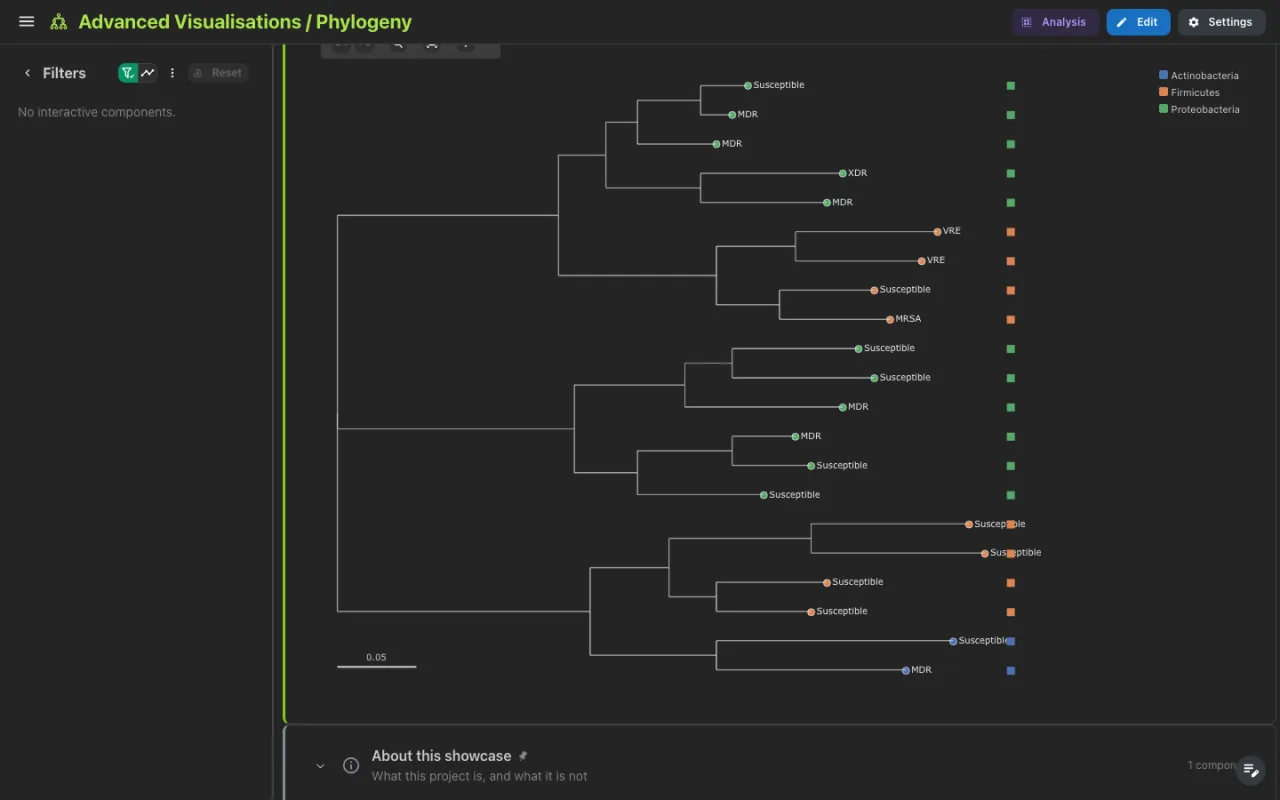
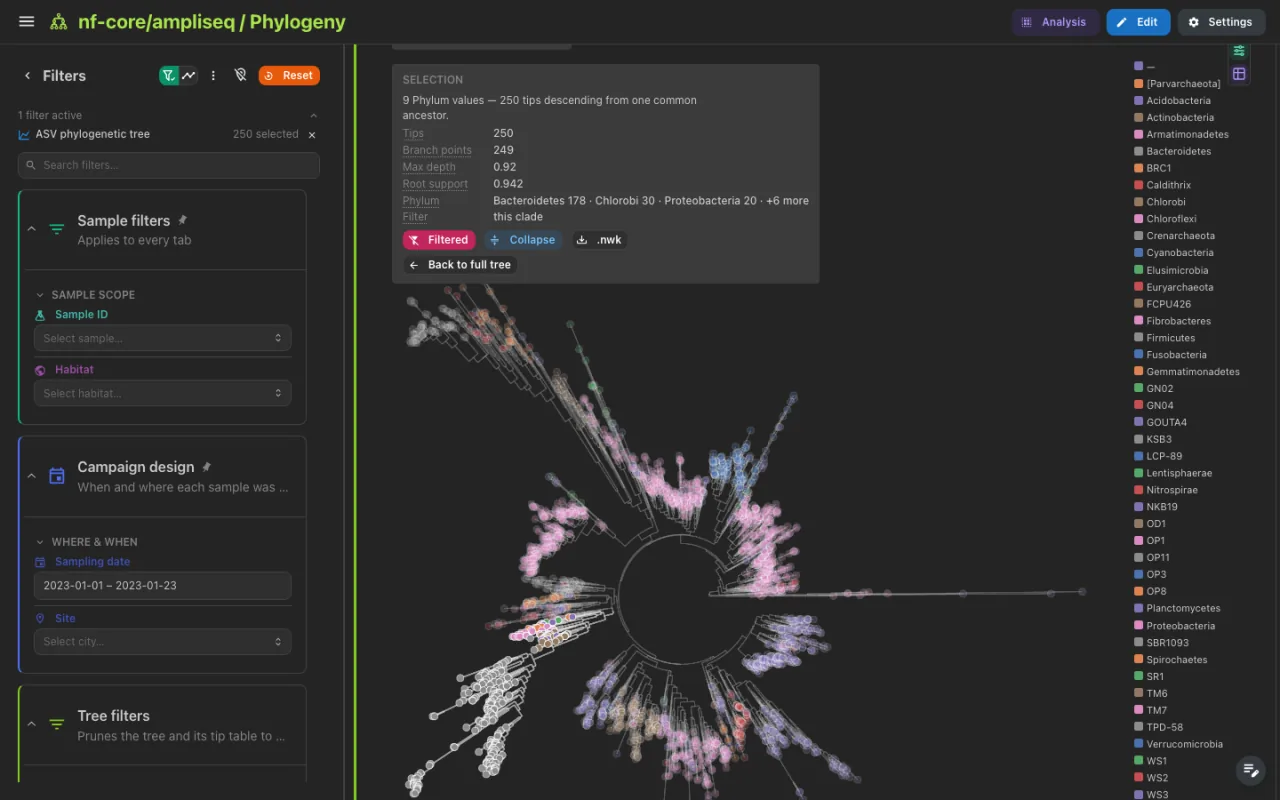
docs(landing): the Explore band shows a real clade selection
Selects a 250-tip clade on the ampliseq ASV tree, opens its summary panel
and filters the dashboard to it, in both themes, and rewrites the copy
around what the panel actually reports.

Claude-Session: https://claude.ai/code/session_01Nf4c6hn9wbUq8buVF4tb3c

diff --git a/docs/index.md b/docs/index.md
@@ -449,7 +449,7 @@ hide:
     <article class="feature-row">
       <div class="feature-row-visual">
         <button type="button" class="feature-frame" aria-label="Enlarge the screenshot: a clade selected on a phylogenetic tree">
-          <img class="only-light" src="images/landing/explore_light.webp" alt="A phylogenetic tree beside the annotation strip built from its tip metadata" loading="lazy">
+          <img class="only-light" src="images/landing/explore_light.webp" alt="A clade selected on a phylogenetic tree, its summary panel open and the dashboard filtered to the 250 tips it holds" loading="lazy">
           <img class="only-dark" src="images/landing/explore_dark.webp" alt="" loading="lazy">
           <span class="feature-zoom" aria-hidden="true"><svg xmlns="http://www.w3.org/2000/svg" viewBox="0 0 24 24"><path d="M15.5,14L20.5,19L19,20.5L14,15.5V14.71L13.73,14.43C12.59,15.41 11.11,16 9.5,16A6.5,6.5 0 0,1 3,9.5A6.5,6.5 0 0,1 9.5,3A6.5,6.5 0 0,1 16,9.5C16,11.11 15.41,12.59 14.43,13.73L14.71,14H15.5M9.5,14C12,14 14,12 14,9.5C14,7 12,5 9.5,5C7,5 5,7 5,9.5C5,12 7,14 9.5,14M12,10H10V12H9V10H7V9H9V7H10V9H12V10Z"/></svg></span>
         </button>
@@ -457,7 +457,7 @@ hide:
       <div class="feature-row-text">
         <span class="feature-kicker"><svg xmlns="http://www.w3.org/2000/svg" viewBox="0 0 24 24" aria-hidden="true"><path d="M9,2V8H11V10H5A2,2 0 0,0 3,12V14H1V20H7V14H5V12H11V14H9V20H15V14H13V12H19V14H17V20H23V14H21V12A2,2 0 0,0 19,10H13V8H15V2H9Z"/></svg><span>Explore</span></span>
         <h3>Pick a clade, filter everything</h3>
-        <p>Pick a clade and filter the whole dashboard down to it. Group samples once and every component colours by that grouping, side by side.</p>
+        <p>Click any internal node and the panel names what you picked: how many tips it holds, how deep it runs, how well the branch is supported, and how those tips break down by taxonomy. Send it through as a filter and every other component on the dashboard narrows to the same samples.</p>
         <a class="feature-link" href="features/components/#phylogeny-interaction">Phylogeny interaction &rarr;</a>
       </div>
     </article>
